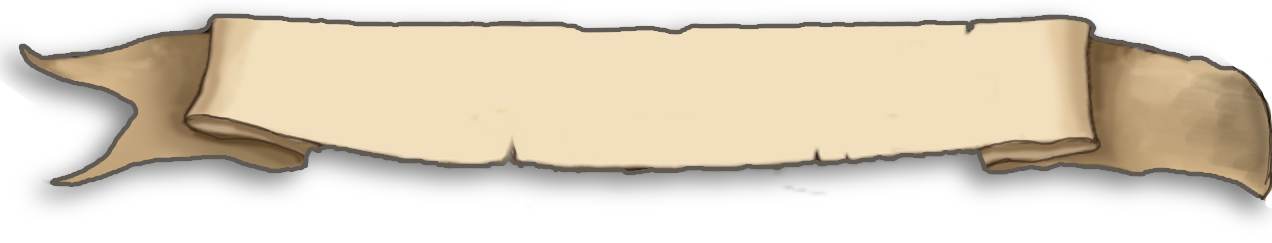
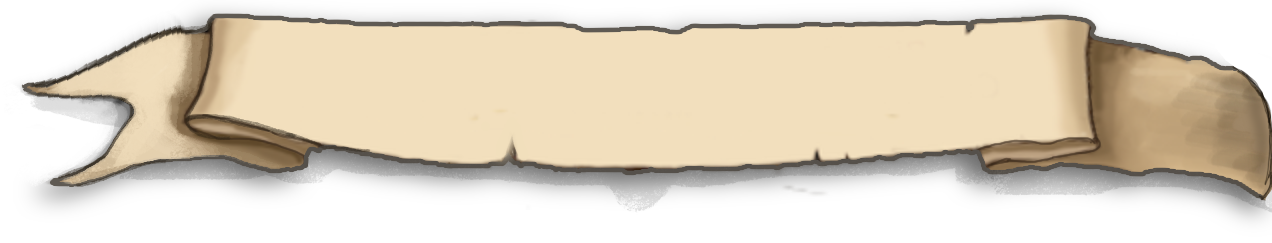
Fix shadows

diff --git a/deckhand2/cards.en.js b/deckhand2/cards.en.js
@@ -187,7 +187,7 @@ var cards = [
         "banners": ['basic-banner', 'rum-banner'],
         // "extra": ['vp-1'],
         "changed": false,
-        "css": "bg-top title-medium"
+        "css": "bg-top title-small"
     },
 
     {
@@ -199,7 +199,7 @@ var cards = [
         "banners": ['basic-banner', 'gun-banner'],
         // "extra": ['vp-1'],
         "changed": false,
-        "css": "bg-top title-medium"
+        "css": "bg-top title-small"
     },
     
 
@@ -559,11 +559,11 @@ var cards = [
     },
 
     {
-        "title": "Rum Merchant",
+        "title": "Barrel Master",
         "discard": ['r'],
-        "cost": ['h', 'cs', 'cs'],
+        "cost": ['h', 'c', 'cs'],
         "img": "cards/rum-merchant.png",
-        "banners": ['basic-banner'],
+        "banners": ['rum-banner'],
         "extra": ['draw-1'],
         "production": ['r'],
         "css": "title-medium",
@@ -590,7 +590,7 @@ var cards = [
         "extra": ['vp-1', 'compass'],
         "production": ['p'],
         "changed": false,
-        "css": "bg-top"
+        "css": "bg-50"
     },
 
     {
@@ -1076,7 +1076,7 @@ var cards = [
     },
 
     {
-        "title": "Undead Fleet",
+        "title": "Macabre Mates",
         "discard": ['g'],
         "cost": ['s', 's', 's', 'h'],
         "img": "cards/ghost-2.jpg",

diff --git a/deckhand2/2.css b/deckhand2/2.css
@@ -408,7 +408,7 @@ img {
     background-image: url(img/banner-2.png);
     background-size:contain;
     background-repeat: no-repeat;
-    rotate: 1deg;
+    rotate: 0deg;
     /* display: none; */
     /* text-shadow: 1.3px 1.4px black; */
     
